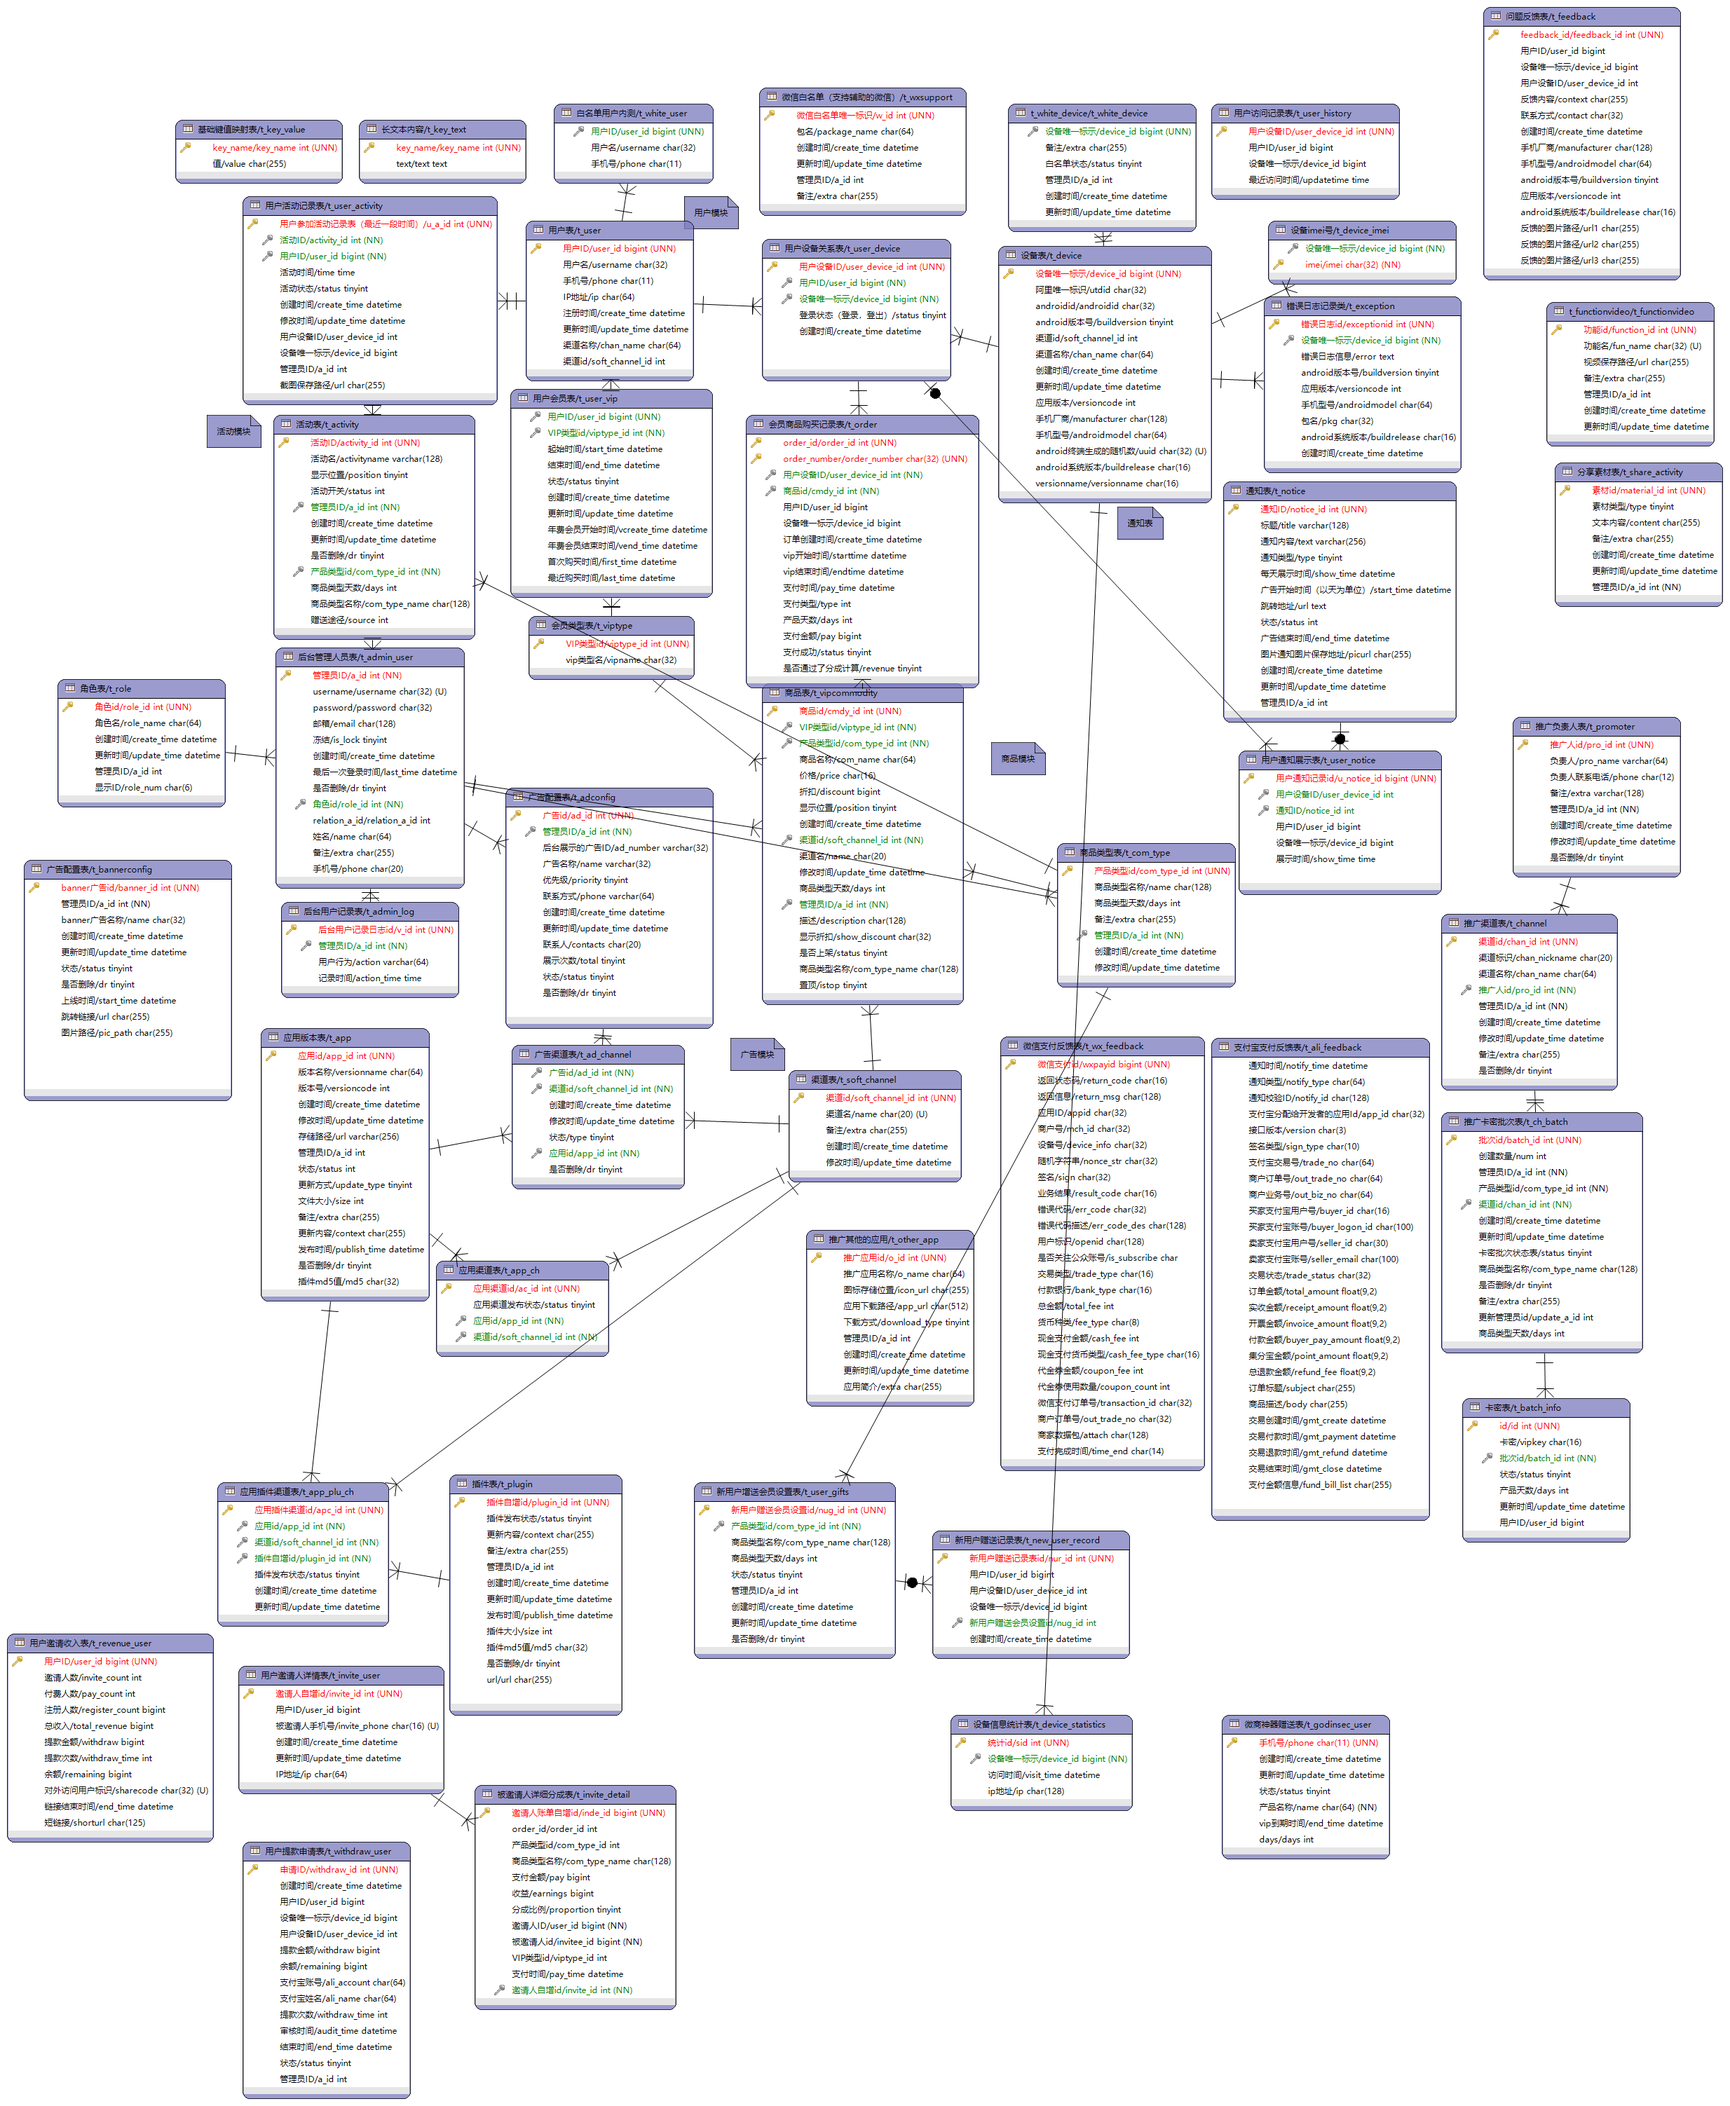
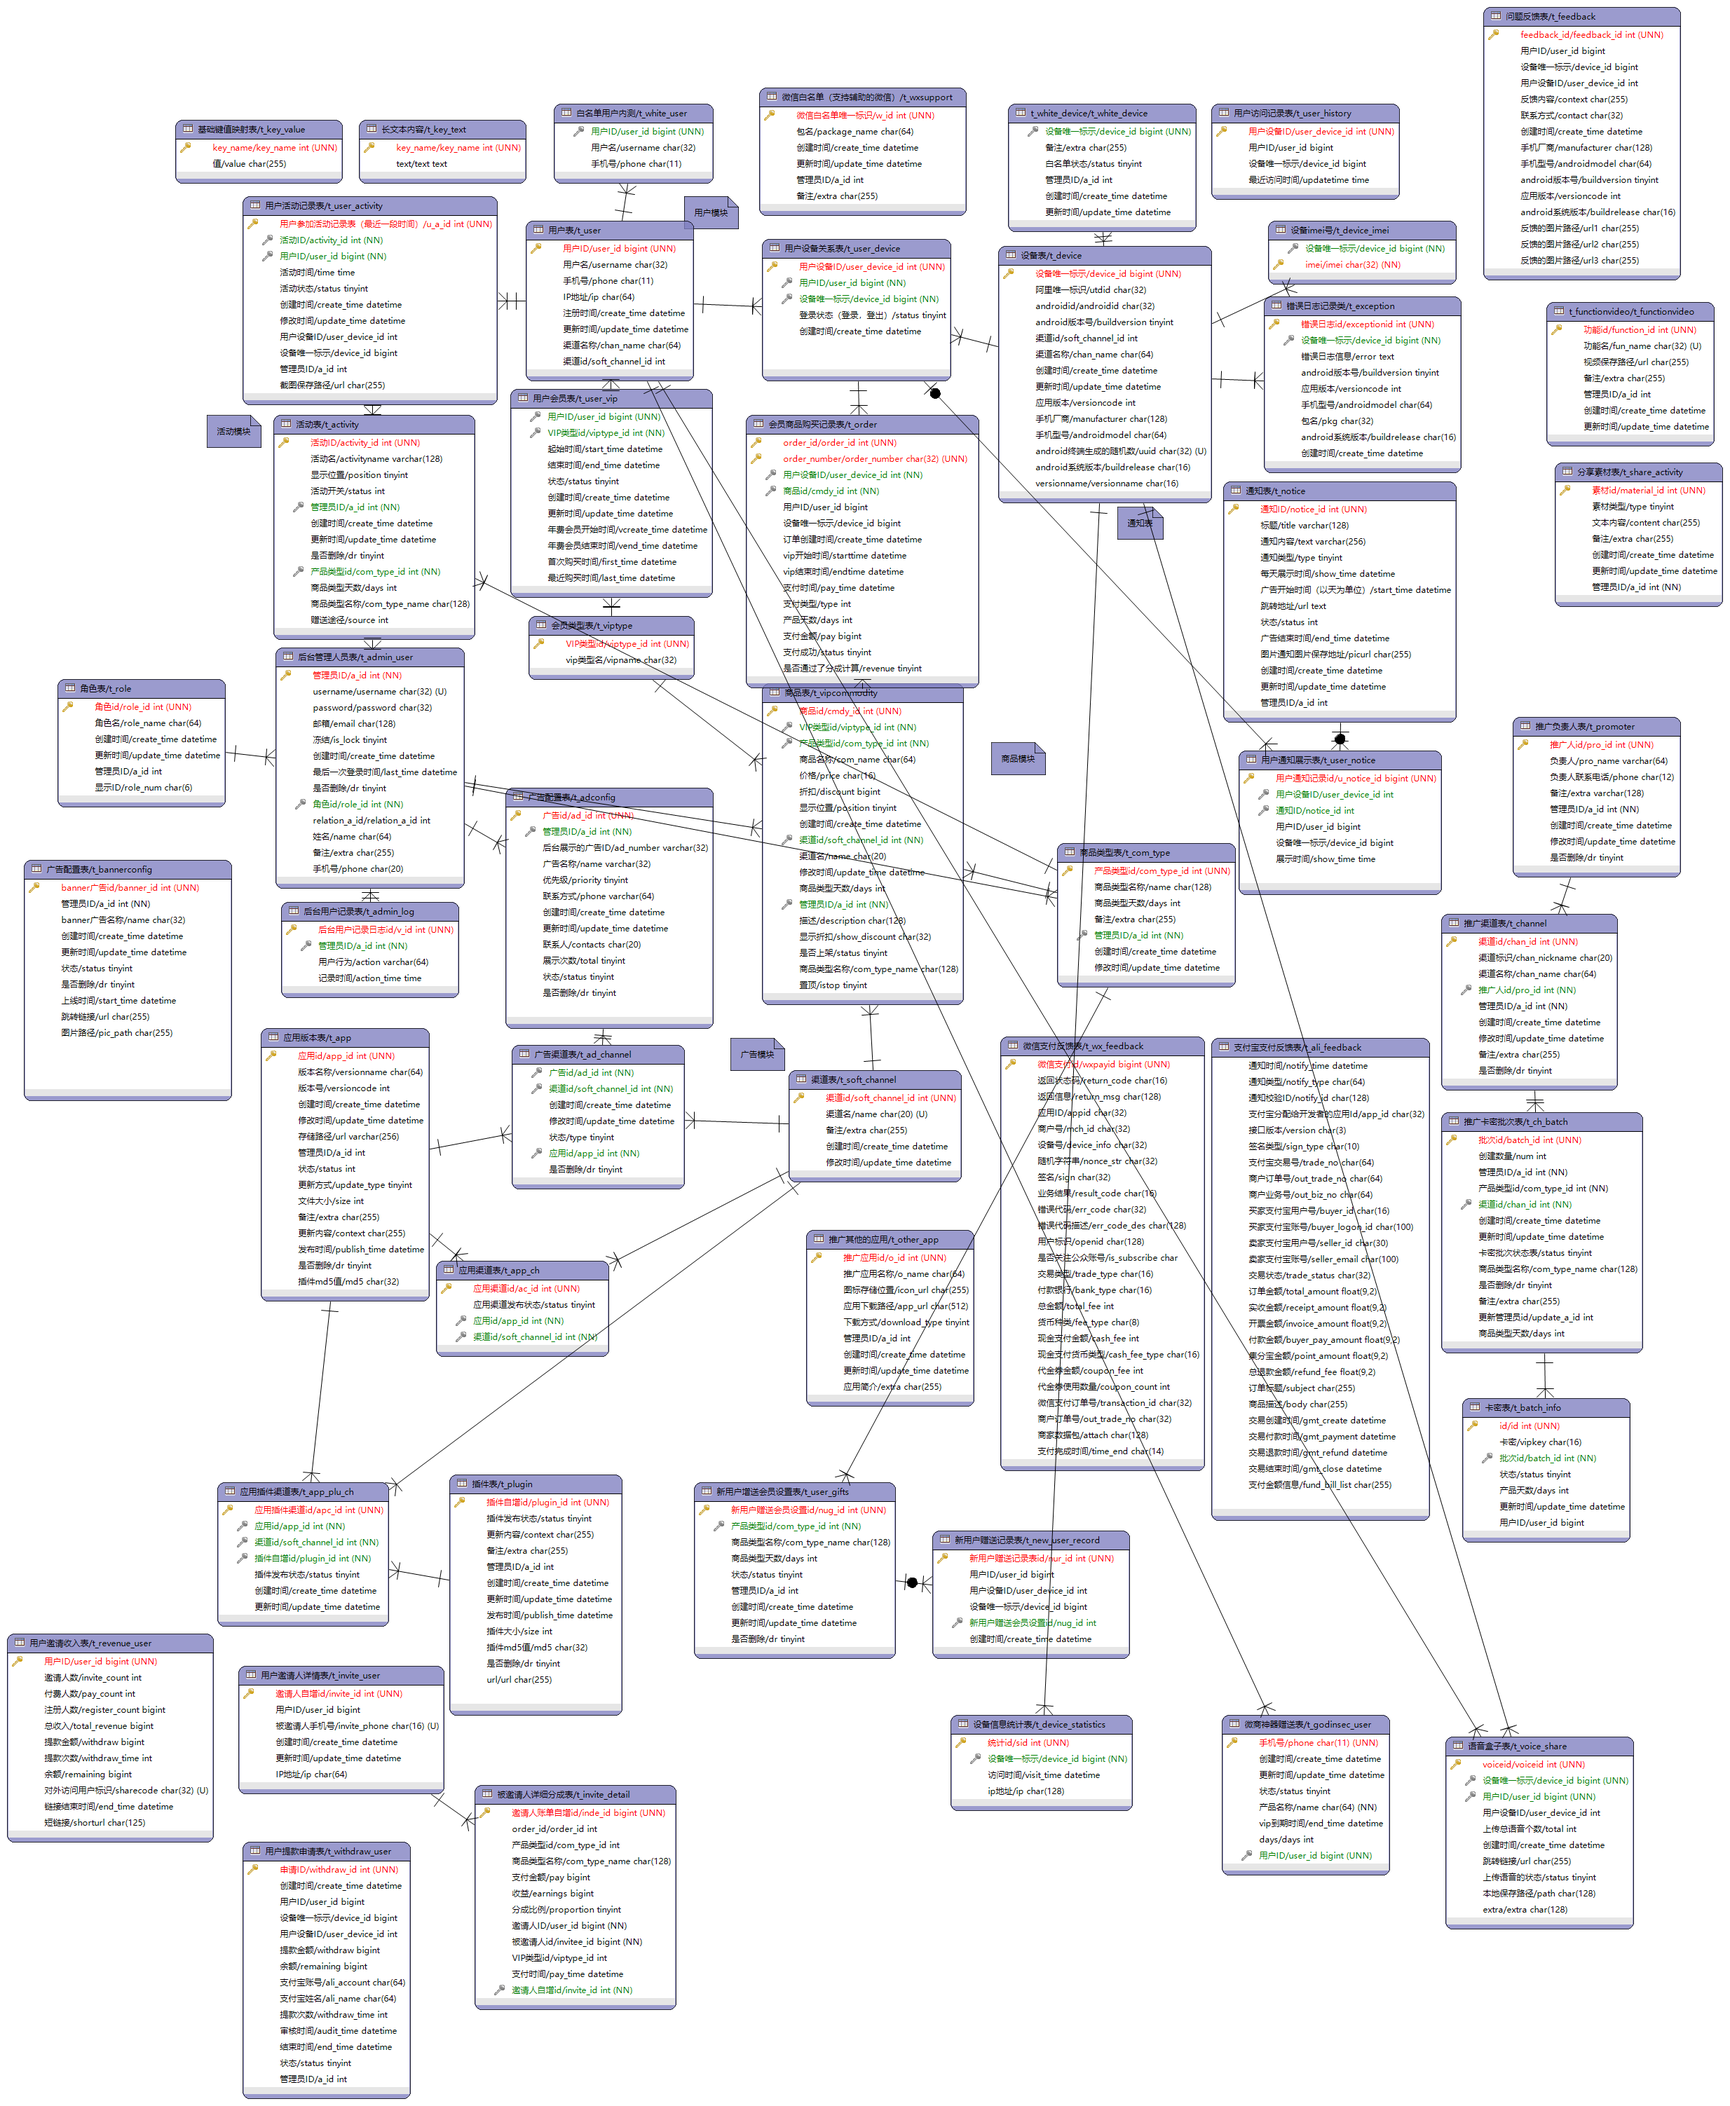
add t_voice_share

Changed region(s): [[0.8424, 0.8047, 0.936, 0.9285], [0.6864, 0.8666, 0.8112, 0.8975]]

diff --git a/common-lib/src/main/java/com/rpa/common/pojo/VoiceSharePO.java b/common-lib/src/main/java/com/rpa/common/pojo/VoiceSharePO.java
@@ -1,0 +1,177 @@
+package com.rpa.common.pojo;
+
+import java.io.Serializable;
+import java.util.Date;
+
+/**
+ * t_voice_share
+ * @author 
+ */
+public class VoiceSharePO implements Serializable {
+    private Integer voiceid;
+
+    private Long deviceId;
+
+    private Long userId;
+
+    private Integer userDeviceId;
+
+    private Integer total;
+
+    private Date createTime;
+
+    private String url;
+
+    /**
+     * 1 初始阶段，未上传 2 上传文件中  3 完成  4 失败
+     */
+    private Byte status;
+
+    private String path;
+
+    private String extra;
+
+    private static final long serialVersionUID = 1L;
+
+    public Integer getVoiceid() {
+        return voiceid;
+    }
+
+    public void setVoiceid(Integer voiceid) {
+        this.voiceid = voiceid;
+    }
+
+    public Long getDeviceId() {
+        return deviceId;
+    }
+
+    public void setDeviceId(Long deviceId) {
+        this.deviceId = deviceId;
+    }
+
+    public Long getUserId() {
+        return userId;
+    }
+
+    public void setUserId(Long userId) {
+        this.userId = userId;
+    }
+
+    public Integer getUserDeviceId() {
+        return userDeviceId;
+    }
+
+    public void setUserDeviceId(Integer userDeviceId) {
+        this.userDeviceId = userDeviceId;
+    }
+
+    public Integer getTotal() {
+        return total;
+    }
+
+    public void setTotal(Integer total) {
+        this.total = total;
+    }
+
+    public Date getCreateTime() {
+        return createTime;
+    }
+
+    public void setCreateTime(Date createTime) {
+        this.createTime = createTime;
+    }
+
+    public String getUrl() {
+        return url;
+    }
+
+    public void setUrl(String url) {
+        this.url = url;
+    }
+
+    public Byte getStatus() {
+        return status;
+    }
+
+    public void setStatus(Byte status) {
+        this.status = status;
+    }
+
+    public String getPath() {
+        return path;
+    }
+
+    public void setPath(String path) {
+        this.path = path;
+    }
+
+    public String getExtra() {
+        return extra;
+    }
+
+    public void setExtra(String extra) {
+        this.extra = extra;
+    }
+
+    @Override
+    public boolean equals(Object that) {
+        if (this == that) {
+            return true;
+        }
+        if (that == null) {
+            return false;
+        }
+        if (getClass() != that.getClass()) {
+            return false;
+        }
+        VoiceSharePO other = (VoiceSharePO) that;
+        return (this.getVoiceid() == null ? other.getVoiceid() == null : this.getVoiceid().equals(other.getVoiceid()))
+            && (this.getDeviceId() == null ? other.getDeviceId() == null : this.getDeviceId().equals(other.getDeviceId()))
+            && (this.getUserId() == null ? other.getUserId() == null : this.getUserId().equals(other.getUserId()))
+            && (this.getUserDeviceId() == null ? other.getUserDeviceId() == null : this.getUserDeviceId().equals(other.getUserDeviceId()))
+            && (this.getTotal() == null ? other.getTotal() == null : this.getTotal().equals(other.getTotal()))
+            && (this.getCreateTime() == null ? other.getCreateTime() == null : this.getCreateTime().equals(other.getCreateTime()))
+            && (this.getUrl() == null ? other.getUrl() == null : this.getUrl().equals(other.getUrl()))
+            && (this.getStatus() == null ? other.getStatus() == null : this.getStatus().equals(other.getStatus()))
+            && (this.getPath() == null ? other.getPath() == null : this.getPath().equals(other.getPath()))
+            && (this.getExtra() == null ? other.getExtra() == null : this.getExtra().equals(other.getExtra()));
+    }
+
+    @Override
+    public int hashCode() {
+        final int prime = 31;
+        int result = 1;
+        result = prime * result + ((getVoiceid() == null) ? 0 : getVoiceid().hashCode());
+        result = prime * result + ((getDeviceId() == null) ? 0 : getDeviceId().hashCode());
+        result = prime * result + ((getUserId() == null) ? 0 : getUserId().hashCode());
+        result = prime * result + ((getUserDeviceId() == null) ? 0 : getUserDeviceId().hashCode());
+        result = prime * result + ((getTotal() == null) ? 0 : getTotal().hashCode());
+        result = prime * result + ((getCreateTime() == null) ? 0 : getCreateTime().hashCode());
+        result = prime * result + ((getUrl() == null) ? 0 : getUrl().hashCode());
+        result = prime * result + ((getStatus() == null) ? 0 : getStatus().hashCode());
+        result = prime * result + ((getPath() == null) ? 0 : getPath().hashCode());
+        result = prime * result + ((getExtra() == null) ? 0 : getExtra().hashCode());
+        return result;
+    }
+
+    @Override
+    public String toString() {
+        StringBuilder sb = new StringBuilder();
+        sb.append(getClass().getSimpleName());
+        sb.append(" [");
+        sb.append("Hash = ").append(hashCode());
+        sb.append(", voiceid=").append(voiceid);
+        sb.append(", deviceId=").append(deviceId);
+        sb.append(", userId=").append(userId);
+        sb.append(", userDeviceId=").append(userDeviceId);
+        sb.append(", total=").append(total);
+        sb.append(", createTime=").append(createTime);
+        sb.append(", url=").append(url);
+        sb.append(", status=").append(status);
+        sb.append(", path=").append(path);
+        sb.append(", extra=").append(extra);
+        sb.append(", serialVersionUID=").append(serialVersionUID);
+        sb.append("]");
+        return sb.toString();
+    }
+}

diff --git a/common-lib/src/main/java/com/rpa/common/mapper/VoiceShareMapper.java b/common-lib/src/main/java/com/rpa/common/mapper/VoiceShareMapper.java
@@ -1,0 +1,12 @@
+package com.rpa.common.mapper;
+
+import com.rpa.common.pojo.VoiceSharePO;
+import org.apache.ibatis.annotations.Mapper;
+
+
+/**
+ * VoiceShareMapper继承基类
+ */
+@Mapper
+public interface VoiceShareMapper extends BaseMapper<VoiceSharePO, Integer> {
+}
